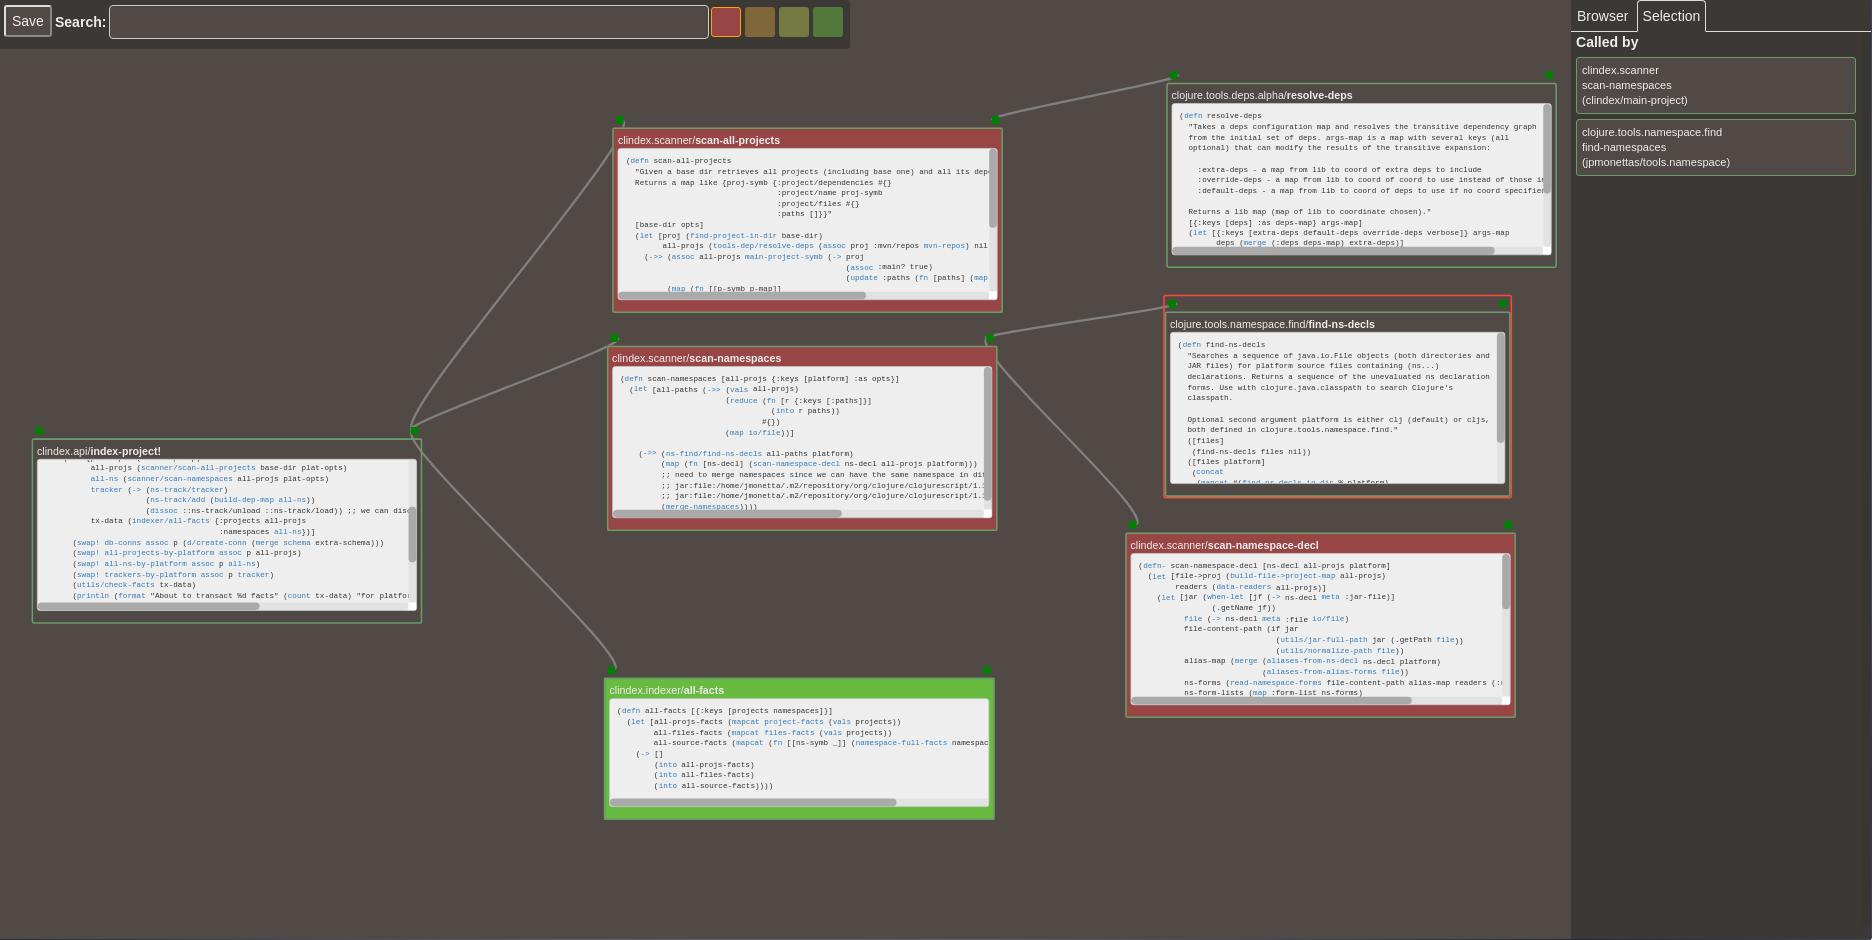
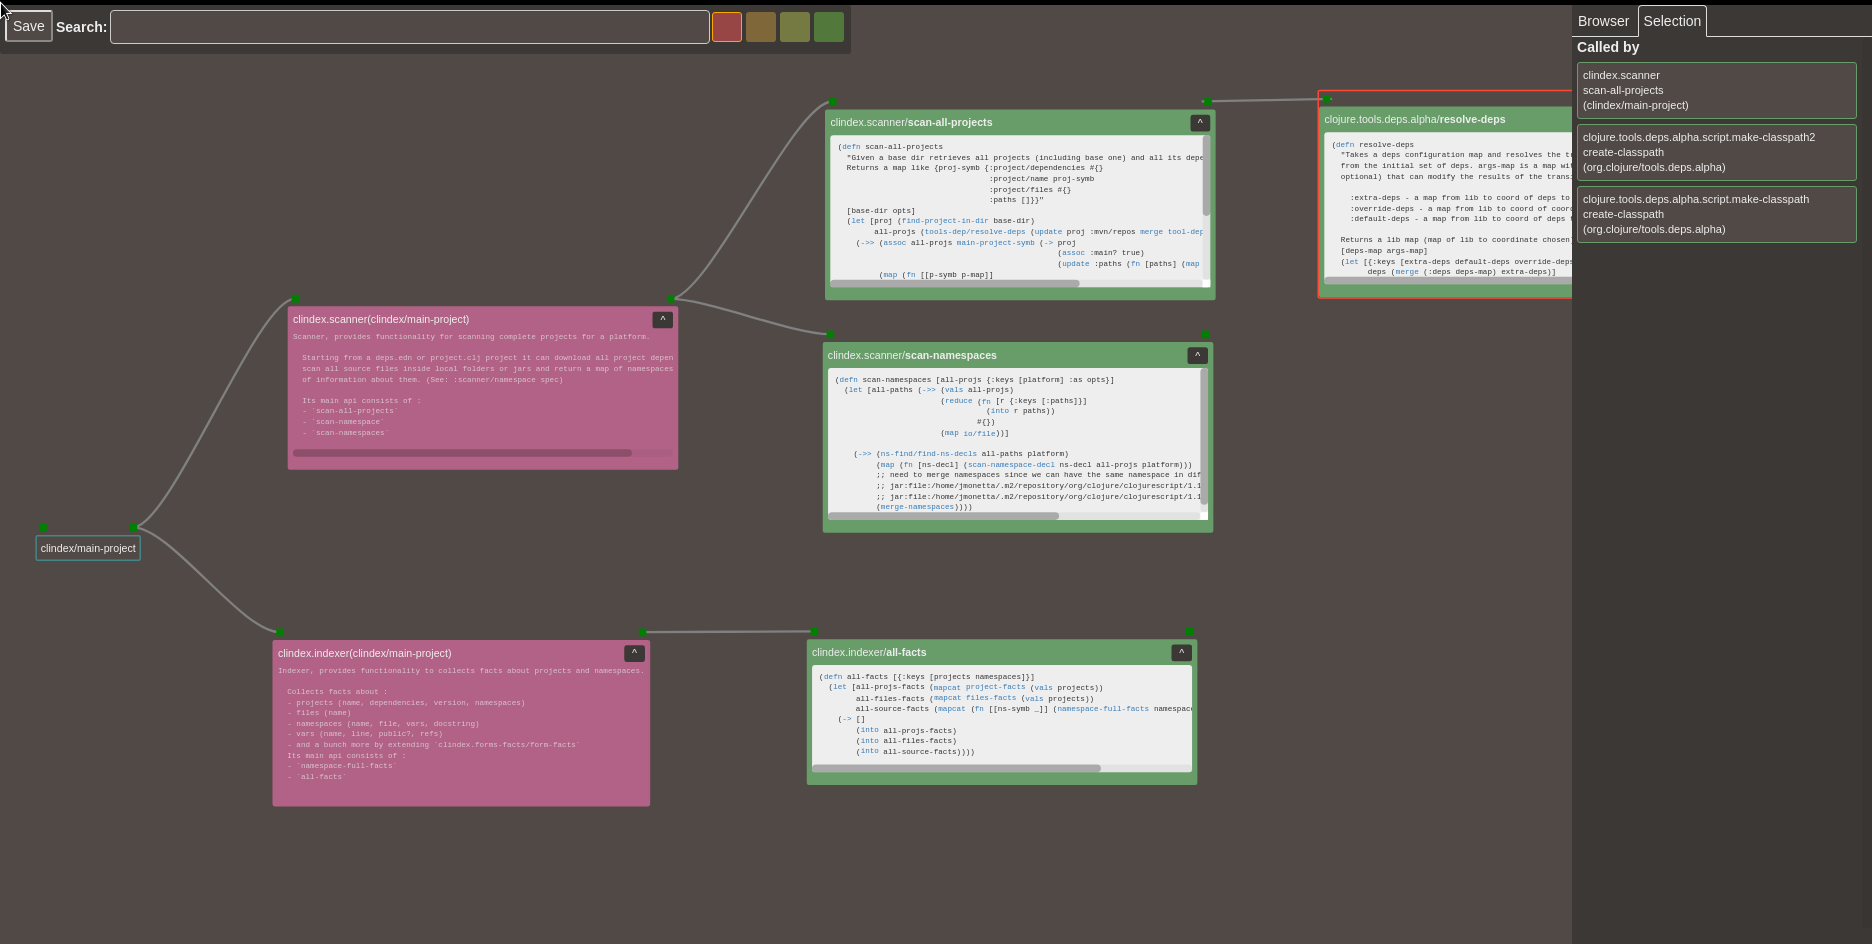
Add collapsable nodes + docstrings

diff --git a/resources/public/css/main.css b/resources/public/css/main.css
@@ -47,6 +47,20 @@
   display: inline-block;
 }
 
+.diagram-wrapper .diagram-layer .node-body .header {
+  display: flex;
+  justify-content: space-between;
+  margin-bottom: 5px;
+}
+
+.diagram-wrapper .diagram-layer .node-body .header .collapse-node {
+  display: inline-block;
+  cursor: pointer;
+  background: #3c3836;
+  padding: 1px 10px 1px 10px;
+  border-radius: 3px;
+}
+
 .diagram-wrapper .diagram-layer .project-node {
   border: 2px solid #458588;
 }
@@ -57,14 +71,27 @@
 
 .diagram-wrapper .diagram-layer .namespace-node {
   border: 2px solid #b16286;
+  background-color: #b16286;
 }
 
 .diagram-wrapper .diagram-layer .namespace-node .port {
   background-color: #b16286;
 }
 
+.diagram-wrapper .diagram-layer .namespace-node .namespace-doc {
+  max-width: 500px;
+  font-size: 10px;
+  max-height: 200px;
+  background-color: #b16286;
+  padding: 0;
+  border: unset;
+  color: #eee;
+  opacity: 0.7;
+}
+
 .diagram-wrapper .diagram-layer .var-node {
   border: 2px solid #689d6a;
+  background-color: #689d6a;
 }
 
 .diagram-wrapper .diagram-layer .var-node .port {
@@ -79,6 +106,7 @@
   max-width: 500px;
   font-size: 10px;
   max-height: 200px;
+  border: unset;
   background-color: #eee;
 }
 
